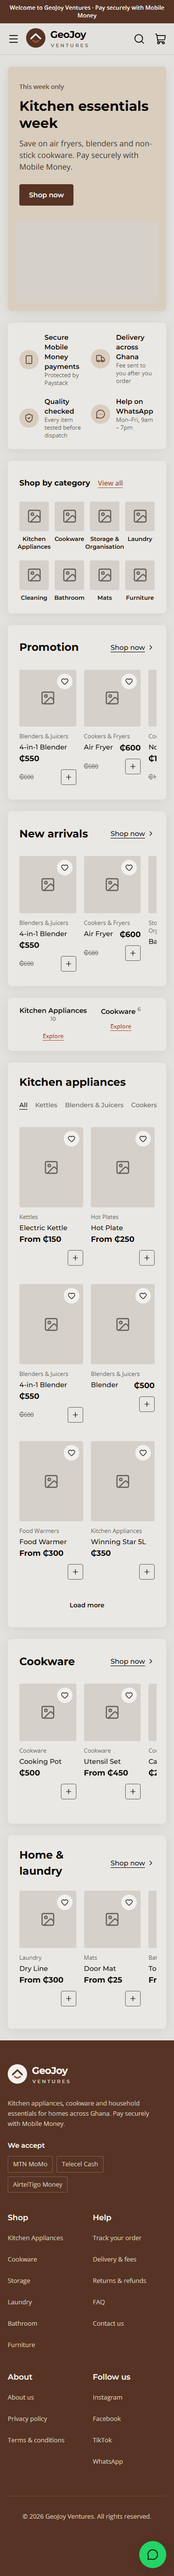
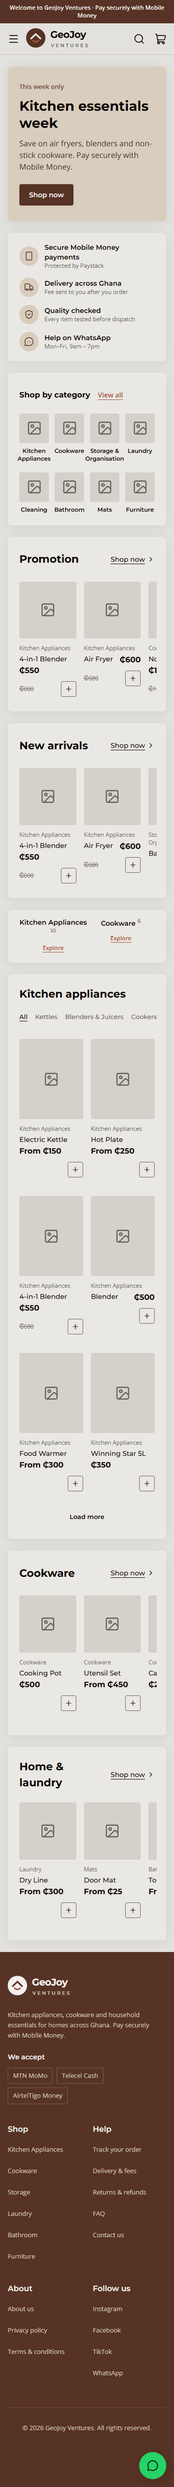
Home: single-column trust strip on phones, text-only hero without a photo, no save button, top-level card labels
- Trust strip: one item per row under 640 px.
- Hero: the plain image block is hidden under 768 px when the banner has
  no image.
- ProductCard: save (heart) button hidden behind a new showSave prop
  (default off) until saved items arrive in Phase 5.
- Card category label is the top-level category ("Kitchen Appliances"),
  resolved from the cached category tree in parallel with the query.
- Updated screenshots.

diff --git a/src/lib/catalogue/products.ts b/src/lib/catalogue/products.ts
@@ -23,7 +23,7 @@ const MAX_PAGE_SIZE = 60;
 
 // Money columns are cast to text so numeric(10,2) values arrive as exact strings.
 const CARD_COLUMNS =
-  "id, slug, name, price::text, compare_at_price::text, categories(name), product_variants(price::text, stock), product_images(url, alt)";
+  "id, slug, name, price::text, compare_at_price::text, category_id, categories(name), product_variants(price::text, stock), product_images(url, alt)";
 
 /** Product row as selected by CARD_COLUMNS. */
 export type ProductCardRow = {
@@ -32,25 +32,39 @@ export type ProductCardRow = {
   name: string;
   price: Money;
   compare_at_price: Money | null;
+  category_id: string | null;
   categories: { name: string } | null;
   product_variants: { price: Money; stock: number }[];
   product_images: { url: string; alt: string }[];
 };
 
-/** Turns a product row into ProductCard props. No image gives the card's placeholder. */
-export function toProductCard(row: ProductCardRow): ProductCardData {
+/**
+ * Turns a product row into ProductCard props. No image gives the card's placeholder.
+ * categoryName defaults to the product's own category; listings pass the top-level name.
+ */
+export function toProductCard(row: ProductCardRow, categoryName = row.categories?.name ?? ""): ProductCardData {
   const image = row.product_images[0];
   return {
     id: row.id,
     href: `/product/${row.slug}`,
     name: row.name,
-    category: row.categories?.name ?? "",
+    category: categoryName,
     price: row.price,
     oldPrice: row.compare_at_price ?? undefined,
     image: image ? { src: image.url, alt: image.alt || row.name } : undefined,
     priceFrom: new Set(row.product_variants.map((variant) => variant.price)).size > 1,
     inStock: row.product_variants.some((variant) => variant.stock > 0),
   };
+}
+
+/** A card mapper that labels each product with its top-level category ("Kitchen Appliances"), as the design shows. */
+async function topLevelCardMapper() {
+  const topLevel = new Map<string, string>();
+  for (const top of await getCategoryTree()) {
+    topLevel.set(top.id, top.name);
+    for (const child of top.children) topLevel.set(child.id, top.name);
+  }
+  return (row: ProductCardRow) => toProductCard(row, row.category_id ? topLevel.get(row.category_id) : undefined);
 }
 
 // ---------------------------------------------------------------------------
@@ -136,17 +150,21 @@ async function findProducts(
   }
 
   const from = (page - 1) * pageSize;
-  const { data, count, error } = await query
-    .order("sort_order", { referencedTable: "product_images" })
-    .limit(1, { referencedTable: "product_images" })
-    .range(from, from + pageSize - 1)
-    .overrideTypes<ProductCardRow[], { merge: false }>();
+  // The category tree is cached per request, so the mapper runs alongside the query.
+  const [{ data, count, error }, toCard] = await Promise.all([
+    query
+      .order("sort_order", { referencedTable: "product_images" })
+      .limit(1, { referencedTable: "product_images" })
+      .range(from, from + pageSize - 1)
+      .overrideTypes<ProductCardRow[], { merge: false }>(),
+    topLevelCardMapper(),
+  ]);
 
   // PGRST103: the page is past the last result.
   if (error?.code === "PGRST103") return empty;
   if (error) throw new Error(`Could not load products: ${error.message}`);
 
-  return { items: data.map(toProductCard), total: count ?? 0, page, pageSize };
+  return { items: data.map(toCard), total: count ?? 0, page, pageSize };
 }
 
 // ---------------------------------------------------------------------------
@@ -241,23 +259,26 @@ export async function getProductBySlug(slug: string): Promise<ProductDetail | nu
 /** Other active products in the same category, most popular first. One round trip via the product's category. */
 export async function getRelatedProducts(productId: string, limit = 4): Promise<ProductCardData[]> {
   const related = "categories.products";
-  const { data, error } = await createPublicClient()
-    .from("products")
-    .select(`categories(products(${CARD_COLUMNS}))`)
-    .eq("id", productId)
-    .eq("is_active", true)
-    .eq(`${related}.is_active`, true)
-    .neq(`${related}.id`, productId)
-    .order("popularity", { referencedTable: related, ascending: false })
-    .order("name", { referencedTable: related })
-    .limit(limit, { referencedTable: related })
-    .order("sort_order", { referencedTable: `${related}.product_images` })
-    .limit(1, { referencedTable: `${related}.product_images` })
-    .maybeSingle()
-    .overrideTypes<{ categories: { products: ProductCardRow[] } | null } | null, { merge: false }>();
+  const [{ data, error }, toCard] = await Promise.all([
+    createPublicClient()
+      .from("products")
+      .select(`categories(products(${CARD_COLUMNS}))`)
+      .eq("id", productId)
+      .eq("is_active", true)
+      .eq(`${related}.is_active`, true)
+      .neq(`${related}.id`, productId)
+      .order("popularity", { referencedTable: related, ascending: false })
+      .order("name", { referencedTable: related })
+      .limit(limit, { referencedTable: related })
+      .order("sort_order", { referencedTable: `${related}.product_images` })
+      .limit(1, { referencedTable: `${related}.product_images` })
+      .maybeSingle()
+      .overrideTypes<{ categories: { products: ProductCardRow[] } | null } | null, { merge: false }>(),
+    topLevelCardMapper(),
+  ]);
   if (error) throw new Error(`Could not load related products: ${error.message}`);
 
-  return (data?.categories?.products ?? []).map(toProductCard);
+  return (data?.categories?.products ?? []).map(toCard);
 }
 
 /** Lowest and highest product price in a category or a search, for the price filter; null when nothing matches. */

diff --git a/src/components/ui/ProductCard.tsx b/src/components/ui/ProductCard.tsx
@@ -17,6 +17,8 @@ export type ProductCardProps = {
   priceFrom?: boolean;
   /** False shows an "Out of stock" badge. */
   inStock?: boolean;
+  /** Shows the save (heart) button. Off until saved items arrive (Phase 5). */
+  showSave?: boolean;
   /** "+" links to the product page to choose options, instead of adding to the bag. */
   chooseOptions?: boolean;
   imageRatio?: ThumbnailRatio;
@@ -36,6 +38,7 @@ export function ProductCard({
   badge,
   priceFrom = false,
   inStock = true,
+  showSave = false,
   chooseOptions = false,
   imageRatio,
   imageSizes,
@@ -50,15 +53,17 @@ export function ProductCard({
             {shownBadge.label}
           </Badge>
         )}
-        <button
-          type="button"
-          aria-label={`Save ${name}`}
-          className="group absolute top-0.5 right-0.5 z-10 grid size-11 place-items-center"
-        >
-          <span className="grid size-8 place-items-center rounded-full bg-field text-ink transition-colors group-hover:text-terracotta motion-reduce:transition-none">
-            <Heart className="size-4" {...iconProps} />
-          </span>
-        </button>
+        {showSave && (
+          <button
+            type="button"
+            aria-label={`Save ${name}`}
+            className="group absolute top-0.5 right-0.5 z-10 grid size-11 place-items-center"
+          >
+            <span className="grid size-8 place-items-center rounded-full bg-field text-ink transition-colors group-hover:text-terracotta motion-reduce:transition-none">
+              <Heart className="size-4" {...iconProps} />
+            </span>
+          </button>
+        )}
       </Thumbnail>
       <div className="flex flex-col gap-1">
         <p className="text-xs text-muted">{category}</p>

diff --git a/src/components/home/HeroBanner.tsx b/src/components/home/HeroBanner.tsx
@@ -55,7 +55,13 @@ export function HeroBanner({ banners }: HeroBannerProps) {
           </div>
         )}
       </div>
-      <div className="relative aspect-[7/4] overflow-hidden rounded-panel bg-image">
+      {/* Without a photo the plain block only shows from 768 px, so phones get the text alone. */}
+      <div
+        className={cn(
+          "relative aspect-[7/4] overflow-hidden rounded-panel bg-image",
+          !banner.imageUrl && "hidden md:block",
+        )}
+      >
         {banner.imageUrl && (
           <Image
             src={banner.imageUrl}

diff --git a/src/components/home/TrustStrip.tsx b/src/components/home/TrustStrip.tsx
@@ -15,7 +15,7 @@ export function TrustStrip() {
       <h2 id="trust-title" className="sr-only">
         Why shop with us
       </h2>
-      <ul className="grid grid-cols-2 gap-x-4 gap-y-5 lg:flex lg:justify-between">
+      <ul className="grid gap-4 sm:grid-cols-2 sm:gap-x-4 sm:gap-y-5 lg:flex lg:justify-between">
         {items.map((item) => (
           <li key={item.title}>
             <TrustItem {...item} />
